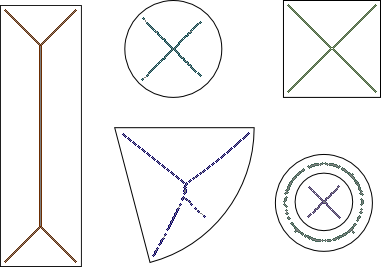
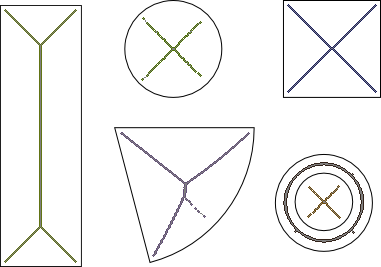
slightly better ridge detection

diff --git a/skellefin.py b/skellefin.py
@@ -7,6 +7,9 @@ import random
 import math
 import sys
 
+from sklearn.neighbors import KNeighborsRegressor
+import numpy as np
+
 FILE="shapes.png"
 #FILE="qIrIf0G.png"
 if len(sys.argv) > 1:
@@ -284,21 +287,14 @@ def find_ridges(im):
             if px_depth < MIN_DIST:
                 continue
 
-            is_ridge = False
+            x_delta = abs(left_depth - right_depth)
+            y_delta = abs(top_depth - bot_depth)
 
-            if abs(left_depth - right_depth) == 0 and abs(top_depth - bot_depth) == 0:
+            if x_delta <= 1 and y_delta <= 1:
                 color_copy = list(color_arr)
                 color_copy[color_idx] += px_depth * 5
                 pixels[pos] = tuple(color_copy)
-                is_ridge = True
 
-            if abs(left_depth - right_depth) == 1 and abs(top_depth - bot_depth) == 1:
-                color_copy = list(color_arr)
-                color_copy[color_idx] += px_depth * 5
-                pixels[pos] = tuple(color_copy)
-                is_ridge = True
-
-            if is_ridge:
                 ridge_list[shape_index].append(pos)
 
     im.save(FILE + ".red.png")
@@ -354,7 +350,4 @@ if __name__ == "__main__":
     shape_map = shape_separate(im.copy())
     grassfire_map = grassfire_fill(im.copy())
     ridge_map = find_ridges(im.copy())
-
-
-   
     connect_lines(im.copy(), ridge_map)
